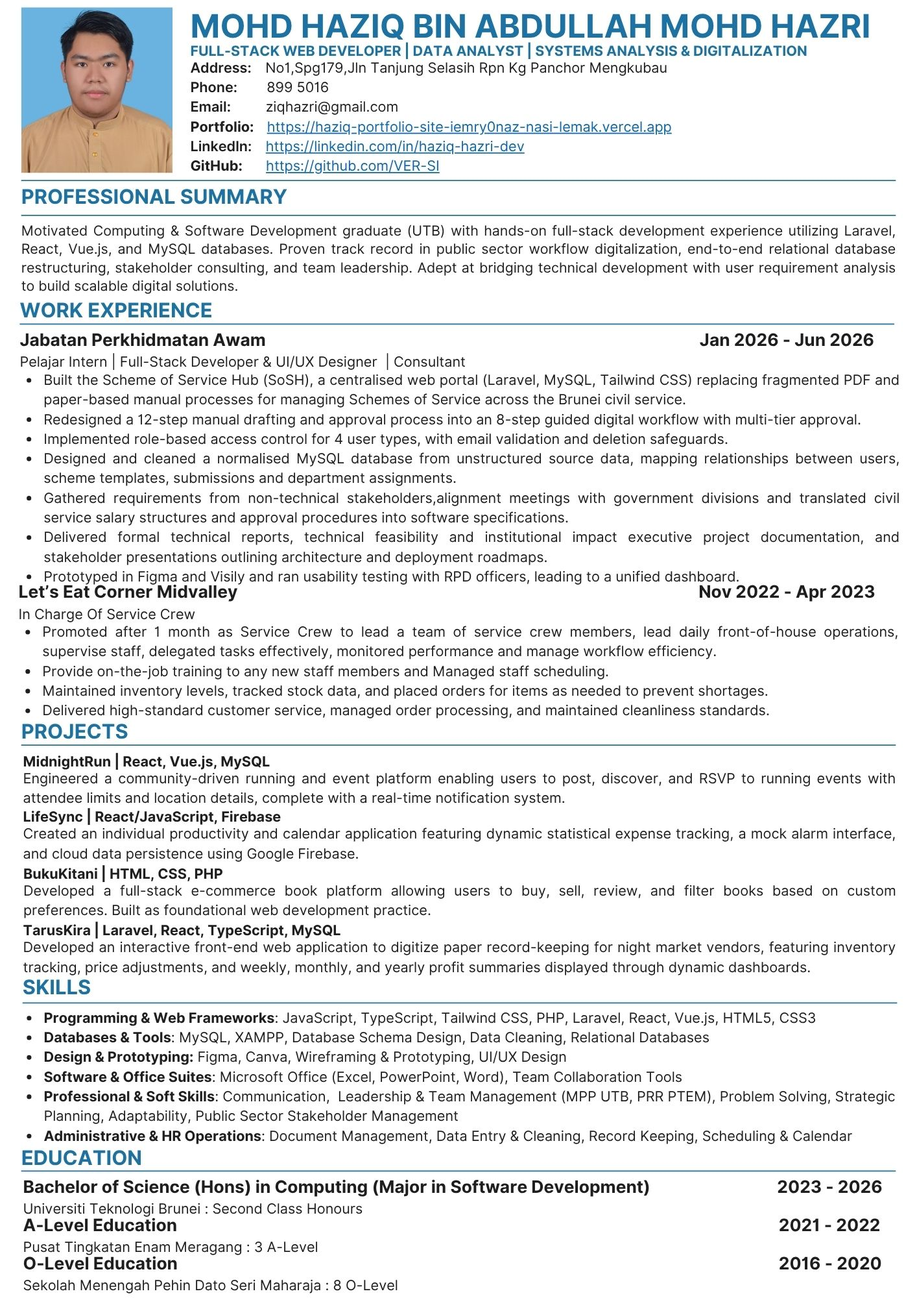
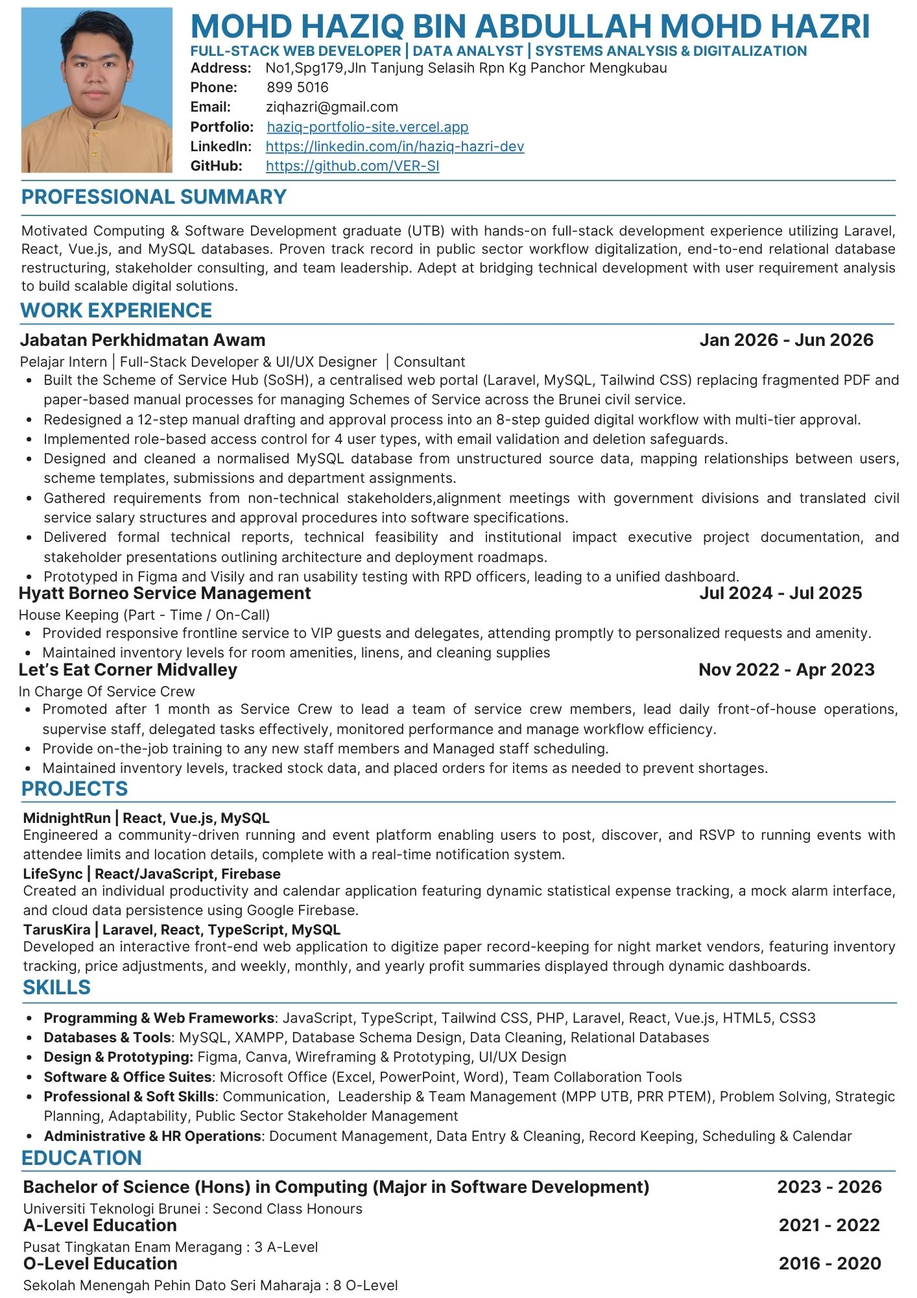
trying change

Changed region(s): [[0.0, 0.434, 0.9646, 0.744], [0.3112, 0.093, 0.7468, 0.124]]

diff --git a/src/components/Projects.tsx b/src/components/Projects.tsx
@@ -18,7 +18,7 @@ function ProjectImage({ project, aesthetic }: { project: Project; aesthetic: Des
                     ? 'rounded-none border-2 border-[#341C09] bg-[#FFEBDC] text-[#341C09] shadow-[4px_4px_0px_0px_#341C09]'
                     : isNeumorph
                     ? 'rounded-2xl bg-[#EBECF0] text-[#2D343F] shadow-[inset_4px_4px_8px_#c8c9ce,inset_-4px_-4px_8px_#ffffff]'
-                    : 'rounded-lg border border-zinc-800 bg-gradient-to-br from-zinc-900 via-zinc-950 to-zinc-900 shadow-inner'
+                    : 'rounded-xl border border-zinc-800 bg-gradient-to-br from-zinc-900 via-zinc-950 to-zinc-900 shadow-inner'
             }`}>
                 <div className={`flex h-12 w-12 items-center justify-center ${
                     isNeo
@@ -34,7 +34,7 @@ function ProjectImage({ project, aesthetic }: { project: Project; aesthetic: Des
                 <p className={`mt-3 text-sm font-semibold ${isNeo ? 'text-[#341C09]' : isNeumorph ? 'text-[#2D343F]' : 'text-zinc-200'}`}>
                     Confidential Project Preview
                 </p>
-                <p className={`mt-1.5 max-w-xs text-xs leading-5 ${isNeo ? 'text-[#9D4502] font-medium' : isNeumorph ? 'text-[#5A6578]' : 'text-zinc-500'}`}>
+                <p className={`mt-1.5 max-w-xs text-xs leading-5 ${isNeo ? 'text-[#9D4502] font-medium' : isNeumorph ? 'text-[#5A6578]' : 'text-zinc-400'}`}>
                     {project.confidentialNote}
                 </p>
             </div>
@@ -48,14 +48,14 @@ function ProjectImage({ project, aesthetic }: { project: Project; aesthetic: Des
                     ? 'rounded-none border-2 border-[#341C09] bg-[#FFEBDC] text-[#341C09]'
                     : isNeumorph
                     ? 'rounded-2xl bg-[#EBECF0] text-[#2D343F] shadow-[inset_4px_4px_8px_#c8c9ce,inset_-4px_-4px_8px_#ffffff]'
-                    : 'rounded-lg border border-zinc-800 bg-zinc-950'
+                    : 'rounded-xl border border-zinc-800 bg-zinc-950'
             }`}>
                 <div>
-                    <p className={`font-semibold ${isNeo ? 'text-[#341C09]' : isNeumorph ? 'text-[#2D343F]' : 'text-zinc-300'}`}>{project.name}</p>
-                    <p className={`mt-2 text-xs ${isNeo ? 'text-[#9D4502]' : isNeumorph ? 'text-[#5A6578]' : 'text-zinc-500'}`}>
+                    <p className={`font-semibold ${isNeo ? 'text-[#341C09]' : isNeumorph ? 'text-[#2D343F]' : 'text-zinc-200'}`}>{project.name}</p>
+                    <p className={`mt-2 text-xs ${isNeo ? 'text-[#9D4502]' : isNeumorph ? 'text-[#5A6578]' : 'text-zinc-400'}`}>
                         Add a screenshot at
                     </p>
-                    <code className={`mt-1 block text-xs ${isNeo ? 'text-[#FC7307] font-bold bg-[#341C09] px-1.5 py-0.5' : isNeumorph ? 'text-[#F98829] font-bold bg-[#EBECF0] px-2 py-1 rounded' : 'text-orange-400'}`}>
+                    <code className={`mt-1 block text-xs ${isNeo ? 'text-[#FC7307] font-bold bg-[#341C09] px-1.5 py-0.5' : isNeumorph ? 'text-[#F98829] font-bold bg-[#EBECF0] px-2 py-1 rounded' : 'text-orange-400 bg-zinc-800/80 px-2 py-1 rounded'}`}>
                         public{project.image}
                     </code>
                 </div>
@@ -72,7 +72,7 @@ function ProjectImage({ project, aesthetic }: { project: Project; aesthetic: Des
                     ? 'rounded-none border-2 border-[#341C09] shadow-[4px_4px_0px_0px_#341C09]'
                     : isNeumorph
                     ? 'rounded-2xl shadow-[6px_6px_12px_#c8c9ce,-6px_-6px_12px_#ffffff]'
-                    : 'rounded-lg border border-zinc-800 bg-zinc-950'
+                    : 'rounded-xl border border-zinc-800 bg-zinc-950'
             }`}
             onError={() => setImageFailed(true)}
         />
@@ -126,18 +126,18 @@ export default function Projects({ aesthetic }: ProjectsProps) {
             case 'default':
             default:
                 return {
-                    sectionBg: 'bg-zinc-950 text-zinc-100',
+                    sectionBg: 'bg-zinc-900 text-zinc-100',
                     categoryText: 'text-orange-500',
                     titleText: 'text-zinc-100',
                     summaryText: 'text-zinc-400',
-                    cardContainer: 'rounded-xl border border-zinc-800 bg-zinc-900 hover:border-zinc-700',
-                    cardExpanded: 'border-orange-500 bg-orange-500/5 ring-1 ring-orange-500/20',
-                    cardHeaderButton: 'hover:bg-zinc-800/40',
-                    arrowIcon: 'rounded-full border border-zinc-700 text-zinc-400',
-                    tabActive: 'bg-orange-500 text-white',
-                    tabInactive: 'bg-zinc-800 text-zinc-400 hover:text-zinc-200',
-                    badge: 'rounded-md border border-orange-500/20 bg-orange-500/10 text-orange-300',
-                    button: 'rounded-lg border border-orange-500/50 text-orange-400 hover:bg-orange-500/10',
+                    cardContainer: 'rounded-xl border border-zinc-800 bg-zinc-900/90 hover:border-zinc-700 shadow-lg',
+                    cardExpanded: 'rounded-xl border border-orange-500/50 bg-zinc-900 shadow-xl ring-1 ring-orange-500/20',
+                    cardHeaderButton: 'rounded-xl hover:bg-zinc-800/40 transition-colors',
+                    arrowIcon: 'rounded-full border border-zinc-700 bg-zinc-800 text-zinc-400',
+                    tabActive: 'rounded-lg bg-orange-500 text-white font-medium shadow-md shadow-orange-500/20',
+                    tabInactive: 'rounded-lg bg-zinc-800/80 text-zinc-400 hover:text-zinc-200 hover:bg-zinc-800 transition-all',
+                    badge: 'rounded-md border border-orange-500/20 bg-orange-500/10 text-orange-300 text-xs font-medium',
+                    button: 'rounded-lg border border-orange-500/50 bg-orange-500/10 text-orange-400 hover:bg-orange-500/20 font-medium transition-all',
                     confidentialBadge: 'rounded-lg border border-zinc-800 bg-zinc-950 text-zinc-500 text-xs font-medium',
                     divider: 'border-t border-zinc-800',
                 };
@@ -157,7 +157,7 @@ export default function Projects({ aesthetic }: ProjectsProps) {
                         <h2 className={`mt-2 text-3xl font-bold tracking-tight sm:text-4xl ${s.titleText}`}>
                             Featured Projects
                         </h2>
-                        <div className={`mt-3 h-1 w-12 rounded-full ${aesthetic === 'neo-brutalism' ? 'bg-[#341C09]' : 'bg-white'}`}></div>
+                        <div className={`mt-3 h-1 w-12 rounded-full ${aesthetic === 'neo-brutalism' ? 'bg-[#341C09]' : aesthetic === 'neumorphism' ? 'bg-white' : 'bg-orange-500'}`}></div>
                         <p className={`mt-4 max-w-2xl text-sm leading-7 ${s.summaryText}`}>
                             A collection of full-stack web applications, internal tools, and mobile concepts I’ve engineered. Click a project card to expand its details and explore features.
                         </p>
@@ -177,7 +177,7 @@ export default function Projects({ aesthetic }: ProjectsProps) {
                                     {/* Project header info */}
                                     <div className="mb-4 pl-1">
                                         <h3 className={`text-2xl font-bold ${s.titleText}`}>
-                                            <span className={`mr-2 font-mono ${aesthetic === 'neo-brutalism' ? 'text-[#341C09]' : 'text-white'}`}>
+                                            <span className={`mr-2 font-mono ${aesthetic === 'neo-brutalism' ? 'text-[#341C09]' : aesthetic === 'neumorphism' ? 'text-white' : 'text-orange-400'}`}>
                                                 {String(index + 1).padStart(2, '0')}.
                                             </span>
                                             {project.name}
@@ -187,12 +187,12 @@ export default function Projects({ aesthetic }: ProjectsProps) {
                                                 {project.category}
                                             </p>
                                             {project.prototypeNote && (
-                                                <span className={`px-2 py-0.5 font-mono text-[10px] font-medium ${
+                                                <span className={`px-2.5 py-0.5 font-mono text-[10px] font-medium ${
                                                     aesthetic === 'neo-brutalism'
                                                         ? 'rounded-none border border-[#341C09] bg-[#FEAB6D] text-[#341C09]'
                                                         : aesthetic === 'neumorphism'
                                                         ? 'rounded-xl bg-[#EBECF0] text-[#2D343F] font-bold shadow-[2px_2px_4px_#d47322,-2px_-2px_4px_#ff9d30]'
-                                                        : 'rounded bg-zinc-800 text-zinc-400'
+                                                        : 'rounded-md border border-zinc-800 bg-zinc-900 text-zinc-400'
                                                 }`}>
                                                     Prototype
                                                 </span>
@@ -235,7 +235,7 @@ export default function Projects({ aesthetic }: ProjectsProps) {
                                                 aria-hidden="true"
                                                 className={`flex h-8 w-8 shrink-0 items-center justify-center transition-all duration-300 ${
                                                     isExpanded
-                                                        ? `${aesthetic === 'neo-brutalism' ? 'rotate-180 border-2 border-[#341C09] bg-[#FC7307] text-[#341C09] font-bold shadow-[2px_2px_0px_0px_#341C09]' : aesthetic === 'neumorphism' ? 'rotate-180 bg-[#F98829] text-white shadow-[inset_2px_2px_4px_#c8c9ce,inset_-2px_-2px_4px_#ffffff]' : 'rotate-180 border-orange-500 bg-orange-500 text-white'}`
+                                                        ? `${aesthetic === 'neo-brutalism' ? 'rotate-180 border-2 border-[#341C09] bg-[#FC7307] text-[#341C09] font-bold shadow-[2px_2px_0px_0px_#341C09]' : aesthetic === 'neumorphism' ? 'rotate-180 bg-[#F98829] text-white shadow-[inset_2px_2px_4px_#d47322,inset_-2px_-2px_4px_#ff9d30]' : 'rotate-180 rounded-full border border-orange-500 bg-orange-500 text-white'}`
                                                         : s.arrowIcon
                                                 }`}
                                             >
@@ -322,7 +322,7 @@ export default function Projects({ aesthetic }: ProjectsProps) {
                                                                             {project.details}
                                                                         </p>
                                                                         {project.prototypeNote && (
-                                                                            <p className={`mt-2 text-xs italic ${aesthetic === 'neo-brutalism' ? 'text-[#9D4502]' : aesthetic === 'neumorphism' ? 'text-[#F98829]' : 'text-orange-400/90'}`}>
+                                                                            <p className={`mt-2 text-xs italic ${aesthetic === 'neo-brutalism' ? 'text-[#9D4502]' : aesthetic === 'neumorphism' ? 'text-[#F98829]' : 'text-orange-400'}`}>
                                                                                 Note: {project.prototypeNote}
                                                                             </p>
                                                                         )}

diff --git a/src/App.tsx b/src/App.tsx
@@ -25,7 +25,12 @@ export default function App() {
           label: 'font-mono text-xs text-[#341C09] font-bold mr-1',
           buttonActive: 'rounded-none border-2 border-[#341C09] bg-[#FC7307] px-3 py-1 font-mono text-xs font-extrabold text-[#341C09] shadow-[2px_2px_0px_0px_#341C09]',
           buttonInactive: 'rounded-none border-2 border-[#341C09] bg-[#FFEBDC] px-3 py-1 font-mono text-xs font-bold text-[#341C09] hover:bg-[#f6d7be]',
-          mobileToggleBtn: 'rounded-none border-2 border-[#341C09] bg-[#FC7307] px-3.5 py-2 font-mono text-xs font-extrabold text-[#341C09] shadow-[2px_2px_0px_0px_#341C09]',
+          
+          // Enhanced Mobile Styles
+          mobileToggleBtn: 'rounded-none border-2 border-[#341C09] bg-[#FC7307] px-5 py-3 font-mono text-sm font-black text-[#341C09] shadow-[4px_4px_0px_0px_#341C09] active:translate-x-[2px] active:translate-y-[2px] active:shadow-[2px_2px_0px_0px_#341C09]',
+          mobileMenuBox: 'rounded-none border-2 border-[#341C09] bg-[#FEAB6D] p-4 shadow-[6px_6px_0px_0px_#341C09]',
+          mobileButtonActive: 'w-full rounded-none border-2 border-[#341C09] bg-[#FC7307] px-4 py-2.5 font-mono text-sm font-extrabold text-[#341C09] shadow-[3px_3px_0px_0px_#341C09]',
+          mobileButtonInactive: 'w-full rounded-none border-2 border-[#341C09] bg-[#FFEBDC] px-4 py-2.5 font-mono text-sm font-bold text-[#341C09] hover:bg-[#f6d7be]',
         };
       case 'neumorphism':
         return {
@@ -34,7 +39,12 @@ export default function App() {
           label: 'font-mono text-xs text-[#2D343F] font-bold mr-1',
           buttonActive: 'rounded-xl bg-[#F98829] px-3.5 py-1 font-mono text-xs font-bold text-white shadow-[3px_3px_6px_#d47322,-3px_-3px_6px_#ff9d30]',
           buttonInactive: 'rounded-xl bg-[#EBECF0] px-3.5 py-1 font-mono text-xs font-semibold text-[#2D343F] shadow-[3px_3px_6px_#c8c9ce,-3px_-3px_6px_#ffffff] hover:text-[#F98829] transition-all',
-          mobileToggleBtn: 'rounded-xl bg-[#F98829] px-3.5 py-2 font-mono text-xs font-semibold text-white shadow-[3px_3px_6px_#d47322,-3px_-3px_6px_#ff9d30]',
+          
+          // Enhanced Mobile Styles
+          mobileToggleBtn: 'rounded-2xl bg-[#F98829] px-5 py-3 font-mono text-sm font-bold text-white shadow-[4px_4px_10px_#d47322,-4px_-4px_10px_#ff9d30] active:scale-95 transition-all',
+          mobileMenuBox: 'rounded-2xl bg-[#EBECF0] p-4 shadow-[10px_10px_20px_rgba(0,0,0,0.15),-5px_-5px_15px_rgba(255,255,255,0.8)] transition-all',
+          mobileButtonActive: 'w-full rounded-xl bg-[#F98829] px-4 py-2.5 font-mono text-sm font-bold text-white shadow-[3px_3px_6px_#d47322,-3px_-3px_6px_#ff9d30]',
+          mobileButtonInactive: 'w-full rounded-xl bg-[#EBECF0] px-4 py-2.5 font-mono text-sm font-semibold text-[#2D343F] shadow-[3px_3px_6px_#c8c9ce,-3px_-3px_6px_#ffffff] hover:text-[#F98829] transition-all',
         };
       case 'default':
       default:
@@ -44,7 +54,12 @@ export default function App() {
           label: 'font-mono text-xs text-zinc-400 mr-1',
           buttonActive: 'rounded-2xl bg-orange-500 px-3 py-1 font-mono text-xs font-medium text-white',
           buttonInactive: 'rounded-2xl px-3 py-1 font-mono text-xs font-medium text-zinc-400 hover:text-zinc-200 transition-all',
-          mobileToggleBtn: 'rounded-2xl bg-orange-600 px-3.5 py-2 font-mono text-xs font-semibold text-white shadow-lg shadow-orange-500/20 hover:bg-orange-500 transition-all',
+          
+          // Enhanced Mobile Styles
+          mobileToggleBtn: 'rounded-2xl bg-orange-600 px-5 py-3 font-mono text-sm font-bold text-white shadow-xl shadow-orange-500/30 hover:bg-orange-500 active:scale-95 transition-all',
+          mobileMenuBox: 'rounded-2xl border border-zinc-700 bg-zinc-900/95 p-4 shadow-2xl backdrop-blur-xl min-w-[200px]',
+          mobileButtonActive: 'w-full rounded-xl bg-orange-500 px-4 py-2.5 font-mono text-sm font-semibold text-white shadow-md shadow-orange-500/20',
+          mobileButtonInactive: 'w-full rounded-xl px-4 py-2.5 font-mono text-sm font-medium text-zinc-300 hover:bg-zinc-800/60 hover:text-white transition-all',
         };
     }
   };
@@ -66,7 +81,7 @@ export default function App() {
 
       {/* Floating Design Aesthetic Switcher Toolbar */}
       <aside aria-label="Design Aesthetic Switcher" className="fixed bottom-6 right-6 z-50">
-        {/* Mobile View: Collapsed Toggle Button */}
+        {/* Mobile View: Enhanced Larger Floating Button & Drawer */}
         <div className="block sm:hidden">
           {!mobileMenuOpen ? (
             <button
@@ -77,13 +92,16 @@ export default function App() {
               Change Design
             </button>
           ) : (
-            <div className={`flex flex-col gap-2 p-3 ${s.toolbar}`}>
-              <div className="flex items-center justify-between pb-1">
-                <span className={s.label}>Style:</span>
+            <div className={`flex flex-col gap-2.5 ${s.mobileMenuBox}`}>
+              <div className="flex items-center justify-between pb-1 border-b border-black/10 dark:border-white/10">
+                <span className={`font-mono text-xs font-extrabold uppercase tracking-wider ${aesthetic === 'neo-brutalism' ? 'text-[#341C09]' : aesthetic === 'neumorphism' ? 'text-zinc-700' : 'text-zinc-400'}`}>
+                  Select Theme
+                </span>
                 <button
                   type="button"
                   onClick={() => setMobileMenuOpen(false)}
-                  className="font-mono text-xs font-bold opacity-70 hover:opacity-100"
+                  className="w-7 h-7 flex items-center justify-center font-mono text-sm font-bold opacity-70 hover:opacity-100 rounded-full active:bg-black/10"
+                  aria-label="Close theme switcher"
                 >
                   ✕
                 </button>
@@ -91,21 +109,21 @@ export default function App() {
               <button
                 type="button"
                 onClick={() => { setAesthetic('default'); setMobileMenuOpen(false); }}
-                className={aesthetic === 'default' ? s.buttonActive : s.buttonInactive}
+                className={aesthetic === 'default' ? s.mobileButtonActive : s.mobileButtonInactive}
               >
                 Default
               </button>
               <button
                 type="button"
                 onClick={() => { setAesthetic('neo-brutalism'); setMobileMenuOpen(false); }}
-                className={aesthetic === 'neo-brutalism' ? s.buttonActive : s.buttonInactive}
+                className={aesthetic === 'neo-brutalism' ? s.mobileButtonActive : s.mobileButtonInactive}
               >
                 Neo-Brutalism
               </button>
               <button
                 type="button"
                 onClick={() => { setAesthetic('neumorphism'); setMobileMenuOpen(false); }}
-                className={aesthetic === 'neumorphism' ? s.buttonActive : s.buttonInactive}
+                className={aesthetic === 'neumorphism' ? s.mobileButtonActive : s.mobileButtonInactive}
               >
                 Neumorphism
               </button>

diff --git a/src/components/Education.tsx b/src/components/Education.tsx
@@ -46,14 +46,14 @@ export default function Education({ aesthetic }: EducationProps) {
             case 'default':
             default:
                 return {
-                    sectionBg: 'bg-zinc-950 text-zinc-100',
+                    sectionBg: 'bg-zinc-900 text-zinc-100',
                     categoryText: 'text-orange-500',
                     titleText: 'text-zinc-100',
                     summaryText: 'text-zinc-400',
-                    cardContainer: 'rounded-xl border border-zinc-800 bg-zinc-900 hover:border-zinc-700',
-                    cardExpanded: 'border-orange-500 bg-orange-500/5 ring-1 ring-orange-500/20',
-                    cardHeaderButton: 'hover:bg-zinc-800/40',
-                    arrowIcon: 'rounded-full border border-zinc-700 text-zinc-400',
+                    cardContainer: 'rounded-xl border border-zinc-800 bg-zinc-900/90 hover:border-zinc-700 shadow-lg',
+                    cardExpanded: 'rounded-xl border border-orange-500/50 bg-zinc-900 shadow-xl ring-1 ring-orange-500/20',
+                    cardHeaderButton: 'rounded-xl hover:bg-zinc-800/40 transition-colors',
+                    arrowIcon: 'rounded-full border border-zinc-700 bg-zinc-800 text-zinc-400',
                     badge: 'rounded-full border border-orange-500/30 bg-orange-500/10 text-orange-400 font-mono text-xs',
                     subjectBadge: 'rounded-md border border-orange-500/20 bg-orange-500/10 text-orange-300 text-xs',
                     divider: 'border-t border-zinc-800',
@@ -74,7 +74,7 @@ export default function Education({ aesthetic }: EducationProps) {
                         <h2 className={`mt-2 text-3xl font-bold tracking-tight sm:text-4xl ${s.titleText}`}>
                             Education &amp; Qualifications
                         </h2>
-                        <div className={`mt-3 h-1 w-12 rounded-full ${aesthetic === 'neo-brutalism' ? 'bg-[#341C09]' : 'bg-white'}`}></div>
+                        <div className={`mt-3 h-1 w-12 rounded-full ${aesthetic === 'neo-brutalism' ? 'bg-[#341C09]' : aesthetic === 'neumorphism' ? 'bg-white' : 'bg-orange-500'}`}></div>
                         <p className={`mt-4 max-w-2xl text-sm leading-7 ${s.summaryText}`}>
                             My formal academic background and qualifications spanning software development, sciences, and leadership. Click an education card to view subjects, grades, and co-curricular activities.
                         </p>
@@ -131,7 +131,7 @@ export default function Education({ aesthetic }: EducationProps) {
                                                         aria-hidden="true"
                                                         className={`flex h-8 w-8 shrink-0 items-center justify-center transition-all duration-300 ${
                                                             isExpanded
-                                                                ? `${aesthetic === 'neo-brutalism' ? 'rotate-180 border-2 border-[#341C09] bg-[#FC7307] text-[#341C09] font-bold shadow-[2px_2px_0px_0px_#341C09]' : aesthetic === 'neumorphism' ? 'rotate-180 bg-[#F98829] text-white shadow-[inset_2px_2px_4px_#c8c9ce,inset_-2px_-2px_4px_#ffffff]' : 'rotate-180 border-orange-500 bg-orange-500 text-white'}`
+                                                                ? `${aesthetic === 'neo-brutalism' ? 'rotate-180 border-2 border-[#341C09] bg-[#FC7307] text-[#341C09] font-bold shadow-[2px_2px_0px_0px_#341C09]' : aesthetic === 'neumorphism' ? 'rotate-180 bg-[#F98829] text-white shadow-[inset_2px_2px_4px_#c8c9ce,inset_-2px_-2px_4px_#ffffff]' : 'rotate-180 rounded-full border border-orange-500 bg-orange-500 text-white'}`
                                                                 : s.arrowIcon
                                                         }`}
                                                     >

diff --git a/src/components/Contact.tsx b/src/components/Contact.tsx
@@ -39,13 +39,13 @@ export default function Contact({ aesthetic }: ContactProps) {
             case 'default':
             default:
                 return {
-                    sectionBg: 'bg-zinc-950 text-zinc-100',
+                    sectionBg: 'bg-zinc-900 text-zinc-100',
                     categoryText: 'text-orange-500',
                     titleText: 'text-zinc-100',
                     summaryText: 'text-zinc-400',
-                    cardContainer: 'rounded-2xl border border-zinc-800 bg-zinc-900 px-6 py-12 text-center shadow-xl shadow-black/20 sm:px-12',
-                    buttonPrimary: 'inline-flex items-center gap-2 rounded-lg bg-orange-600 px-5 py-3 text-sm font-semibold text-white transition hover:bg-orange-500',
-                    buttonSecondary: 'inline-flex items-center gap-2 rounded-lg border border-zinc-700 px-5 py-3 text-sm font-semibold text-zinc-200 transition hover:border-orange-500 hover:text-orange-500',
+                    cardContainer: 'rounded-2xl border border-zinc-800 bg-zinc-900/90 px-6 py-12 text-center shadow-xl shadow-black/20 sm:px-12',
+                    buttonPrimary: 'inline-flex items-center gap-2 rounded-lg bg-orange-600 px-5 py-3 text-sm font-semibold text-white transition hover:bg-orange-500 shadow-md shadow-orange-600/20',
+                    buttonSecondary: 'inline-flex items-center gap-2 rounded-lg border border-zinc-700 bg-zinc-800/80 px-5 py-3 text-sm font-semibold text-zinc-200 transition hover:border-orange-500 hover:text-orange-400 hover:bg-zinc-800',
                     divider: 'border-t border-zinc-800',
                     footerDivider: 'border-t border-zinc-800/80',
                 };
@@ -69,7 +69,7 @@ export default function Contact({ aesthetic }: ContactProps) {
                         <h2 className={`mt-2 text-3xl font-bold tracking-tight sm:text-4xl ${aesthetic === 'neumorphism' ? 'text-[#2D343F]' : s.titleText}`}>
                             Get In Touch
                         </h2>
-                        <div className={`mx-auto mt-3 h-1 w-12 rounded-full ${aesthetic === 'neo-brutalism' ? 'bg-[#341C09]' : aesthetic === 'neumorphism' ? 'bg-[#F98829]' : 'bg-white'}`}></div>
+                        <div className={`mx-auto mt-3 h-1 w-12 rounded-full ${aesthetic === 'neo-brutalism' ? 'bg-[#341C09]' : aesthetic === 'neumorphism' ? 'bg-[#F98829]' : 'bg-orange-500'}`}></div>
                         <p className={`mx-auto mt-4 max-w-xl text-sm leading-7 ${aesthetic === 'neumorphism' ? 'text-[#5A6578]' : s.summaryText}`}>
                             I’m happy to connect about software development,
                             collaboration, or opportunities. Feel free to reach out.

diff --git a/src/components/Experience.tsx b/src/components/Experience.tsx
@@ -50,10 +50,10 @@ export default function Experience({ aesthetic }: ExperienceProps) {
                     categoryText: 'text-orange-500',
                     titleText: 'text-zinc-100',
                     summaryText: 'text-zinc-400',
-                    cardContainer: 'rounded-xl border border-zinc-800 bg-zinc-900 hover:border-zinc-700',
-                    cardExpanded: 'border-orange-500 bg-orange-500/5 ring-1 ring-orange-500/20',
-                    cardHeaderButton: 'hover:bg-zinc-800/40',
-                    arrowIcon: 'rounded-full border border-zinc-700 text-zinc-400',
+                    cardContainer: 'rounded-xl border border-zinc-800 bg-zinc-900 hover:border-zinc-700 shadow-lg',
+                    cardExpanded: 'rounded-xl border border-orange-500/50 bg-zinc-900 shadow-xl ring-1 ring-orange-500/20',
+                    cardHeaderButton: 'rounded-xl hover:bg-zinc-800/40 transition-colors',
+                    arrowIcon: 'rounded-full border border-zinc-700 bg-zinc-800 text-zinc-400',
                     badge: 'rounded-full border border-orange-500/30 bg-orange-500/10 text-orange-400 font-mono text-xs',
                     skillBadge: 'rounded-md border border-orange-500/20 bg-orange-500/10 text-orange-300 text-xs',
                     divider: 'border-t border-zinc-800',
@@ -139,7 +139,7 @@ export default function Experience({ aesthetic }: ExperienceProps) {
                                                                         ? 'rotate-180 border-2 border-[#341C09] bg-[#FC7307] text-[#341C09] font-bold shadow-[2px_2px_0px_0px_#341C09]'
                                                                         : aesthetic === 'neumorphism'
                                                                         ? 'rotate-180 bg-[#F98829] text-white shadow-[inset_2px_2px_4px_#c8c9ce,inset_-2px_-2px_4px_#ffffff]'
-                                                                        : 'rotate-180 border-orange-500 bg-orange-500 text-white'
+                                                                        : 'rotate-180 rounded-full border-orange-500 bg-orange-500 text-white'
                                                                   }`
                                                                 : s.arrowIcon
                                                         }`}
